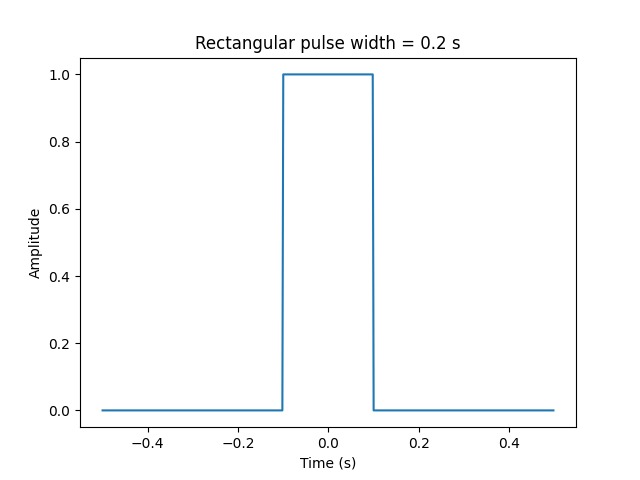
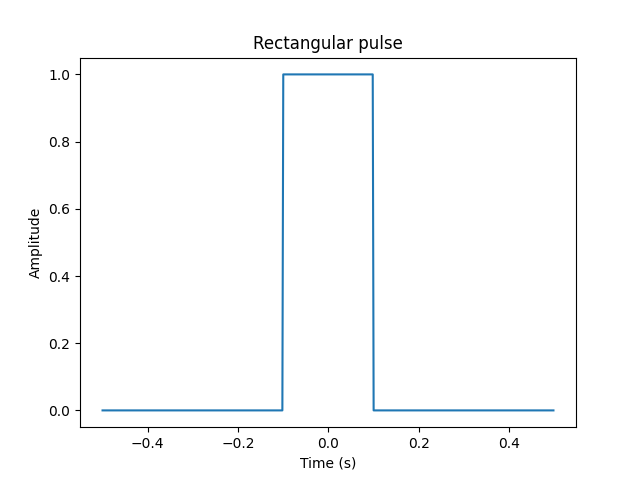
saving

Changed region(s): [[0.2812, 0.0625, 0.7188, 0.125]]

diff --git a/ch1_demo_scripts.py b/ch1_demo_scripts.py
@@ -1,21 +1,65 @@
-def square_wave(f,overSampRate,nCyl):
-    """
-    Generate square wave signal with the following parameters
-    Parameters:
-    f : frequency of square wave in Hertz
-    overSampRate : oversampling rate (integer)
-    nCyl : number of cycles of square wave to generate
-    Returns:
-    (t,g) : time base (t) and the signal g(t) as tuple
-    Example:
-    f=10; overSampRate=30;nCyl = 5;
-    (t,g) = square_wave(f,overSampRate,nCyl)
-    """
-    fs = overSampRate*f # sampling frequency
-    t = np.arange(0,nCyl*1/f-1/fs,1/fs) # time base
-    g = np.sign(np.sin(2*np.pi*f*t)) # replace with cos if a cosine wave is desired
+def sine_wave_demo():
 
-    return (t,g) # return time base and signal g(t) as tuple
+    """
+    Simulate a sinusoidal signal with given sampling rate
+    """
+    import numpy as np
+    import matplotlib.pyplot as plt # library for plotting
+    from signalgen import sine_wave # import the function
+
+    f = 10 #frequency = 10 Hz
+    overSampRate = 30 #oversammpling rate
+    phase = 1/3*np.pi #phase shift in radians
+    nCyl = 5 # desired number of cycles of the sine wave
+    (t,g) = sine_wave(f,overSampRate,phase,nCyl) #function call
+
+    plt.plot(t,g) # plot using pyplot library from matplotlib package
+    plt.title('Sine wave f='+str(f)+' Hz') # plot title
+    plt.xlabel('Time (s)') # x-axis label
+    plt.ylabel('Amplitude') # y-axis label
+    plt.savefig('Sine wave.png') # display the figure
+
+
+def scipy_square_wave():
+
+    """
+    Generate a square wave with given sampling rate
+    """
+    import numpy as np
+    import matplotlib.pyplot as plt
+    from scipy import signal
+
+    f = 10
+    overSampRate = 30 # oversampling rate
+    nCyl = 5 # number of cycles to generate
+    fs = overSampRate*f # sampling frequency
+    t = np.arange(start=0,stop=nCyl*1/f,step=1/fs) # time base
+    g = signal.square(2 * np.pi * f * t, duty = 0.2)
+    plt.plot(t,g); plt.show()
+
+    plt.plot(t,g) # plot using pyplot library from matplotlib package
+    plt.title('Square wave f='+str(f)+' Hz') # plot title
+    plt.xlabel('Time (s)') # x-axis label
+    plt.ylabel('Amplitude') # y-axis label
+    plt.savefig('Square wave.png') # display the figure
+
+
+def rectangular_pulse_demo():
+
+    from signalgen import rect_pulse
+    import matplotlib.pyplot as plt 
+
+    A = 1
+    fs = 500
+    T = .2
+    (t,g) = rect_pulse(A, fs, T)
+
+    plt.plot(t,g) # plot using pyplot library from matplotlib package
+    plt.title('Rectangular pulse') # plot title
+    plt.xlabel('Time (s)') # x-axis label
+    plt.ylabel('Amplitude') # y-axis label
+    plt.savefig('Rect pulse.png') # display the figure
+
 
 def chirp_demo():
     """
@@ -24,14 +68,21 @@ def chirp_demo():
     import numpy as np
     import matplotlib.pyplot as plt
     from scipy.signal import chirp
+
     fs = 500 # sampling frequency in Hz
     t =np.arange(start = 0, stop = 1,step = 1/fs) #total time base from 0 to 1 second
     g = chirp(t, f0=1, t1=0.5, f1=20, phi=0, method='linear')
-    plt.plot(t,g); plt.show()
+
+    plt.plot(t,g) # plot using pyplot library from matplotlib package
+    plt.title('Chirp') # plot title
+    plt.xlabel('Time (s)') # x-axis label
+    plt.ylabel('Amplitude') # y-axis label
+    plt.savefig('Chirp signal.png') # display the figure
+
 
 def fft_example_1():
 
-    from scipy.fftpack import fft, ifft
+    from scipy.fftpack import fft, ifft, fftshift
     import numpy as np
     import matplotlib.pyplot as plt
 
@@ -40,44 +91,36 @@ def fft_example_1():
     t=np.arange(start = 0,stop = 2,step = 1/fs) # 2 seconds duration
     x=np.cos(2*np.pi*fc*t) # time domain signal (real number)
 
-    fig, (ax1, ax2, ax3) = plt.subplots(nrows=3, ncols=1)
-    ax1.plot(t,x) #plot the signal
-    ax1.set_title('$x[n]= cos(2 \pi 10 t)$')
-    ax1.set_xlabel('$t=nT_s$')
-    ax1.set_ylabel('$x[n]$')
+    plt.figure(0)
+    plt.plot(t,x) # plot using pyplot library from matplotlib package
+    plt.title('Time domain') # plot title
+    plt.xlabel('Time (s)') # x-axis label
+    plt.ylabel('Amplitude') # y-axis label
+    plt.savefig('fft_example_1_im1.png') # display the figure
 
-    N=256 # FFT size
-    X = fft(x,N) # N-point complex DFT, output contains DC at index 0
-    # Nyquist frequency at N/2 th index positive frequencies from
-    # index 2 to N/2-1 and negative frequencies from index N/2 to N-1
+    # # fft without fftshift
+    # N=fs # FFT size
+    # X = fft(x,N) # N-point complex DFT, output contains DC at index 0
+    # # Nyquist frequency at N/2 th index positive frequencies from
+    # # index 2 to N/2-1 and negative frequencies from index N/2 to N-1
+    # # calculate frequency bins with FFT
+    # df=fs/N # frequency resolution
+    # sampleIndex = np.arange(start = 0,stop = N) # raw index for FFT plot
+    # f=sampleIndex*df # x-axis index converted to frequencies
 
-    # calculate frequency bins with FFT
+    # fft with fftshift
+    N=fs # FFT size
+    X = fftshift(fft(x,N)) # N-point complex DFT, output contains DC at index 0
     df=fs/N # frequency resolution
-    sampleIndex = np.arange(start = 0,stop = N) # raw index for FFT plot
+    sampleIndex = np.arange(start = -N//2,stop = N//2) # raw index for FFT plot
     f=sampleIndex*df # x-axis index converted to frequencies
 
-    ax2.stem(sampleIndex,abs(X),use_line_collection=True) # sample values on x-axis
-    ax2.set_title('X[k]');ax2.set_xlabel('k');ax2.set_ylabel('|X(k)|');
-    ax3.stem(f,abs(X),use_line_collection=True); # x-axis represent frequencies
-    ax3.set_title('X[f]');ax3.set_xlabel('frequencies (f)');ax3.set_ylabel('|X(f)|');
-    fig.show()
-
-    from scipy.fftpack import fftshift
-    #re-order the index for emulating fftshift
-    sampleIndex = np.arange(start = -N//2,stop = N//2) # // for integer division
-    X1 = X[sampleIndex] #order frequencies without using fftShift
-    X2 = fftshift(X) # order frequencies by using fftshift
-    df=fs/N # frequency resolution
-    f=sampleIndex*df # x-axis index converted to frequencies
-
-    #plot ordered spectrum using the two methods
-    fig, (ax1, ax2) = plt.subplots(nrows=2, ncols=1)#subplots creation
-    ax1.stem(sampleIndex,abs(X1), use_line_collection=True)# result without fftshift
-    ax1.stem(sampleIndex,abs(X2),'r',use_line_collection=True) #result with fftshift
-    ax1.set_xlabel('k');ax1.set_ylabel('|X(k)|')
-    ax2.stem(f,abs(X1), use_line_collection=True)
-    ax2.stem(f,abs(X2),'r' , use_line_collection=True)
-    ax2.set_xlabel('frequencies (f)'),ax2.set_ylabel('|X(f)|'); fig.show()
+    plt.figure(1)
+    plt.stem(f,abs(X)) # plot using pyplot library from matplotlib package
+    plt.title('Freuency domain') # plot title
+    plt.xlabel('f (Hz)') # x-axis label
+    plt.ylabel('Amplitude') # y-axis label
+    plt.savefig('fft_example_1_im2.png') # display the figure
 
 
 def fft_example_2():
